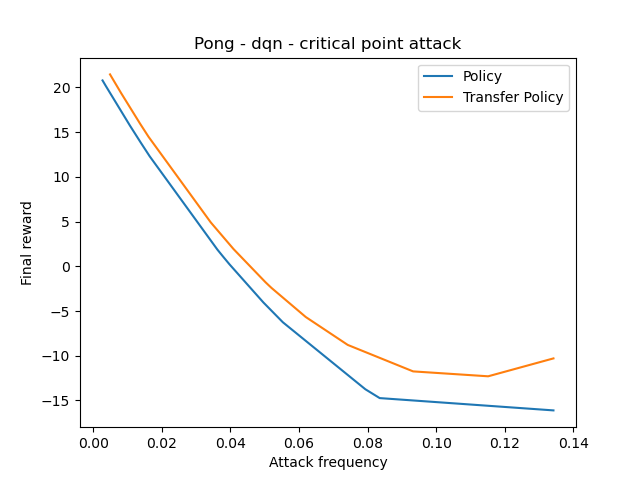
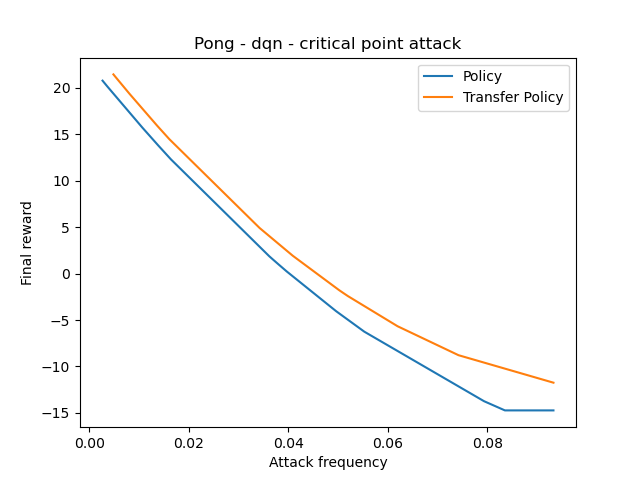
fixed a chart for pong

diff --git a/make_chart_rew.py b/make_chart_rew.py
@@ -33,15 +33,15 @@ def limit_lists(limit_freq, x_lists, y_lists):
 if __name__ == '__main__':
 
     # Data
-    task = "Breakout"  # Pong
+    task = "Pong"  # Pong
     model = "dqn"
     transfer_model = "dqn"
     img_attack = "fgm_eps_0.1"  # fgm_eps_0.05, perfect_attack, fgm_eps_0.3
-    rl_attack = "critical_point_attack"  # strategically_timed_attack, uniform_attack, critical_strategy_attack, critical_point_attack, adversarial_policy_attack
+    rl_attack = "uniform_attack"  # strategically_timed_attack, uniform_attack, critical_strategy_attack, critical_point_attack, adversarial_policy_attack
     has_atk_freq = 1
     has_n_attacks = 0
-    smoothing = 5
-    limit_freq = 0.01  # 0.03
+    smoothing = 2
+    limit_freq = None  # 0.03
     input_file = [
         "log/" + task + "NoFrameskip-v4/" + model + "/" + rl_attack + "_" + img_attack + ".npy",
         "log/" + task + "NoFrameskip-v4/" + model + "/" + rl_attack + "_" + img_attack + "_transf_" + transfer_model + ".npy",
